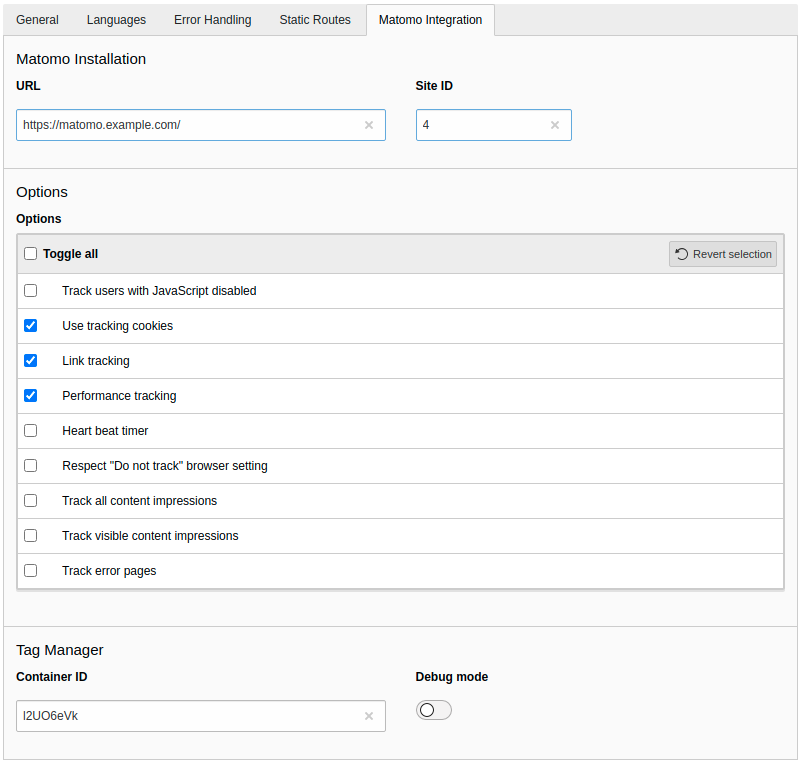
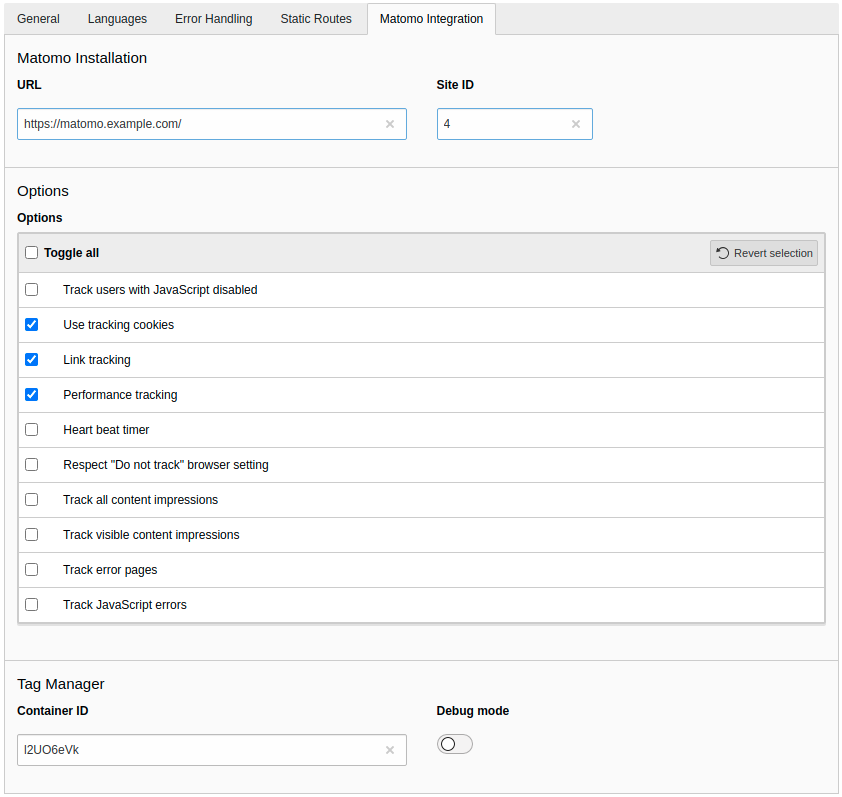
[FEATURE] Add option to track JavaScript errors
Related: #2

diff --git a/Tests/Unit/EventListener/TrackJavaScriptErrorsTest.php b/Tests/Unit/EventListener/TrackJavaScriptErrorsTest.php
@@ -1,0 +1,63 @@
+<?php
+
+declare(strict_types=1);
+
+/*
+ * This file is part of the "matomo_integration" extension for TYPO3 CMS.
+ *
+ * For the full copyright and license information, please read the
+ * LICENSE.txt file that was distributed with this source code.
+ */
+
+namespace Brotkrueml\MatomoIntegration\Tests\Unit\EventListener;
+
+use Brotkrueml\MatomoIntegration\Entity\Configuration;
+use Brotkrueml\MatomoIntegration\Event\AfterTrackPageViewEvent;
+use Brotkrueml\MatomoIntegration\EventListener\TrackJavaScriptErrors;
+use PHPUnit\Framework\TestCase;
+
+final class TrackJavaScriptErrorsTest extends TestCase
+{
+    private TrackJavaScriptErrors $subject;
+
+    protected function setUp(): void
+    {
+        $this->subject = new TrackJavaScriptErrors();
+    }
+
+    /**
+     * @test
+     */
+    public function disabledOption(): void
+    {
+        $configuration = Configuration::createFromSiteConfiguration([
+            'matomoIntegrationUrl' => 'https://www.example.net/',
+            'matomoIntegrationSiteId' => 123,
+        ]);
+
+        $event = new AfterTrackPageViewEvent($configuration);
+        $this->subject->__invoke($event);
+
+        $actual = $event->getMatomoMethodCalls();
+        self::assertCount(0, $actual);
+    }
+
+    /**
+     * @test
+     */
+    public function enabledOption(): void
+    {
+        $configuration = Configuration::createFromSiteConfiguration([
+            'matomoIntegrationUrl' => 'https://www.example.net/',
+            'matomoIntegrationSiteId' => 123,
+            'matomoIntegrationOptions' => 'trackJavaScriptErrors',
+        ]);
+
+        $event = new AfterTrackPageViewEvent($configuration);
+        $this->subject->__invoke($event);
+
+        $actual = $event->getMatomoMethodCalls();
+        self::assertCount(1, $actual);
+        self::assertSame('_paq.push(["enableJSErrorTracking"]);', (string)$actual[0]);
+    }
+}

diff --git a/Tests/Unit/Entity/ConfigurationTest.php b/Tests/Unit/Entity/ConfigurationTest.php
@@ -33,6 +33,7 @@ final class ConfigurationTest extends TestCase
         self::assertFalse($subject->doNotTrack);
         self::assertFalse($subject->trackAllContentImpressions);
         self::assertFalse($subject->trackErrorPages);
+        self::assertFalse($subject->trackJavaScriptErrors);
         self::assertFalse($subject->trackVisibleContentImpressions);
         self::assertSame('', $subject->tagManagerContainerId);
         self::assertFalse($subject->tagManagerDebugMode);
@@ -169,6 +170,7 @@ final class ConfigurationTest extends TestCase
 
         self::assertTrue($subject->trackVisibleContentImpressions);
     }
+
     /**
      * @test
      */
@@ -181,6 +183,17 @@ final class ConfigurationTest extends TestCase
         self::assertTrue($subject->trackErrorPages);
     }
 
+    /**
+     * @test
+     */
+    public function createFromSiteConfigurationWithTrackJavaScriptErrorsEnabledSetsInstanceValuesCorrectly(): void
+    {
+        $subject = Configuration::createFromSiteConfiguration([
+            'matomoIntegrationOptions' => 'trackJavaScriptErrors',
+        ]);
+
+        self::assertTrue($subject->trackJavaScriptErrors);
+    }
 
     /**
      * @test

diff --git a/Classes/EventListener/TrackJavaScriptErrors.php b/Classes/EventListener/TrackJavaScriptErrors.php
@@ -1,0 +1,27 @@
+<?php
+
+declare(strict_types=1);
+
+/*
+ * This file is part of the "matomo_integration" extension for TYPO3 CMS.
+ *
+ * For the full copyright and license information, please read the
+ * LICENSE.txt file that was distributed with this source code.
+ */
+
+namespace Brotkrueml\MatomoIntegration\EventListener;
+
+use Brotkrueml\MatomoIntegration\Event\AfterTrackPageViewEvent;
+
+/**
+ * @internal
+ */
+final class TrackJavaScriptErrors
+{
+    public function __invoke(AfterTrackPageViewEvent $event): void
+    {
+        if ($event->getConfiguration()->trackJavaScriptErrors) {
+            $event->addMatomoMethodCall('enableJSErrorTracking');
+        }
+    }
+}

diff --git a/Configuration/SiteConfiguration/Overrides/sites.php b/Configuration/SiteConfiguration/Overrides/sites.php
@@ -65,6 +65,10 @@ $GLOBALS['SiteConfiguration']['site']['columns'] += [
                     Brotkrueml\MatomoIntegration\Extension::LANGUAGE_PATH_SITECONF . ':trackErrorPages',
                     'trackErrorPages',
                 ],
+                [
+                    Brotkrueml\MatomoIntegration\Extension::LANGUAGE_PATH_SITECONF . ':trackJavaScriptErrors',
+                    'trackJavaScriptErrors',
+                ],
             ],
             'default' => 'cookieTracking,linkTracking,performanceTracking',
         ],

diff --git a/Classes/Entity/Configuration.php b/Classes/Entity/Configuration.php
@@ -41,6 +41,8 @@ final class Configuration
     /** @readonly */
     public bool $trackErrorPages = false;
     /** @readonly */
+    public bool $trackJavaScriptErrors = false;
+    /** @readonly */
     public bool $trackVisibleContentImpressions = false;
     /** @readonly */
     public string $tagManagerContainerId = '';

diff --git a/Documentation/Configuration/Index.rst b/Documentation/Configuration/Index.rst
@@ -96,15 +96,24 @@ Track visible content impressions
 
 Track error pages
    If you have configured the :ref:`error handling
-   <t3api:sitehandling-errorHandling>` and enable this option, the document
+   <t3coreapi:sitehandling-errorHandling>` and enable this option, the document
    title will be set as described in the Matomo FAQ:
-   `How to track error pages <https://matomo.org/faq/how-to/faq_60/>`_.
+   `How to track error pages`_.
 
    Default: *disabled*
 
-.. note::
-   If you have configured multiple error status codes with the same page ID, the
-   first defined error code will be used.
+   .. note::
+      If you have configured multiple error status codes with the same page ID, the
+      first defined error code will be used.
+
+Track JavaScript errors
+   With this option enabled `JavaScript errors`_ are tracked.
+
+   Default: *disabled*
+
+   .. note::
+      Only JavaScript errors that occur after the asynchronous loading and
+      execution of the Matomo script will be tracked.
 
 
 Tag Manager
@@ -142,5 +151,7 @@ Debug Mode
 .. _download and outlink tracking: https://matomo.org/faq/new-to-piwik/faq_71/
 .. _enables cookies tracking: https://matomo.org/faq/general/faq_157/
 .. _feature request: https://github.com/brotkrueml/typo3-matomo-integration/issues/new
+.. _How to track error pages: https://matomo.org/faq/how-to/faq_60/
+.. _JavaScript errors: https://matomo.org/faq/how-to/how-do-i-enable-basic-javascript-error-tracking-and-reporting-in-matomo-browser-console-error-messages/
 .. _Matomo Tag Manager: https://matomo.org/docs/tag-manager/
 .. _tracking of performance data: https://matomo.org/faq/how-to/how-do-i-see-page-performance-reports/

diff --git a/CHANGELOG.md b/CHANGELOG.md
@@ -8,6 +8,7 @@ and this project adheres to [Semantic Versioning](https://semver.org/spec/v2.0.0
 
 ### Added
 - Option to track error pages (#1)
+- Option to track JavaScript errors (#2)
 
 ### Changed
 - Use middleware instead of hook for tracking code injection
